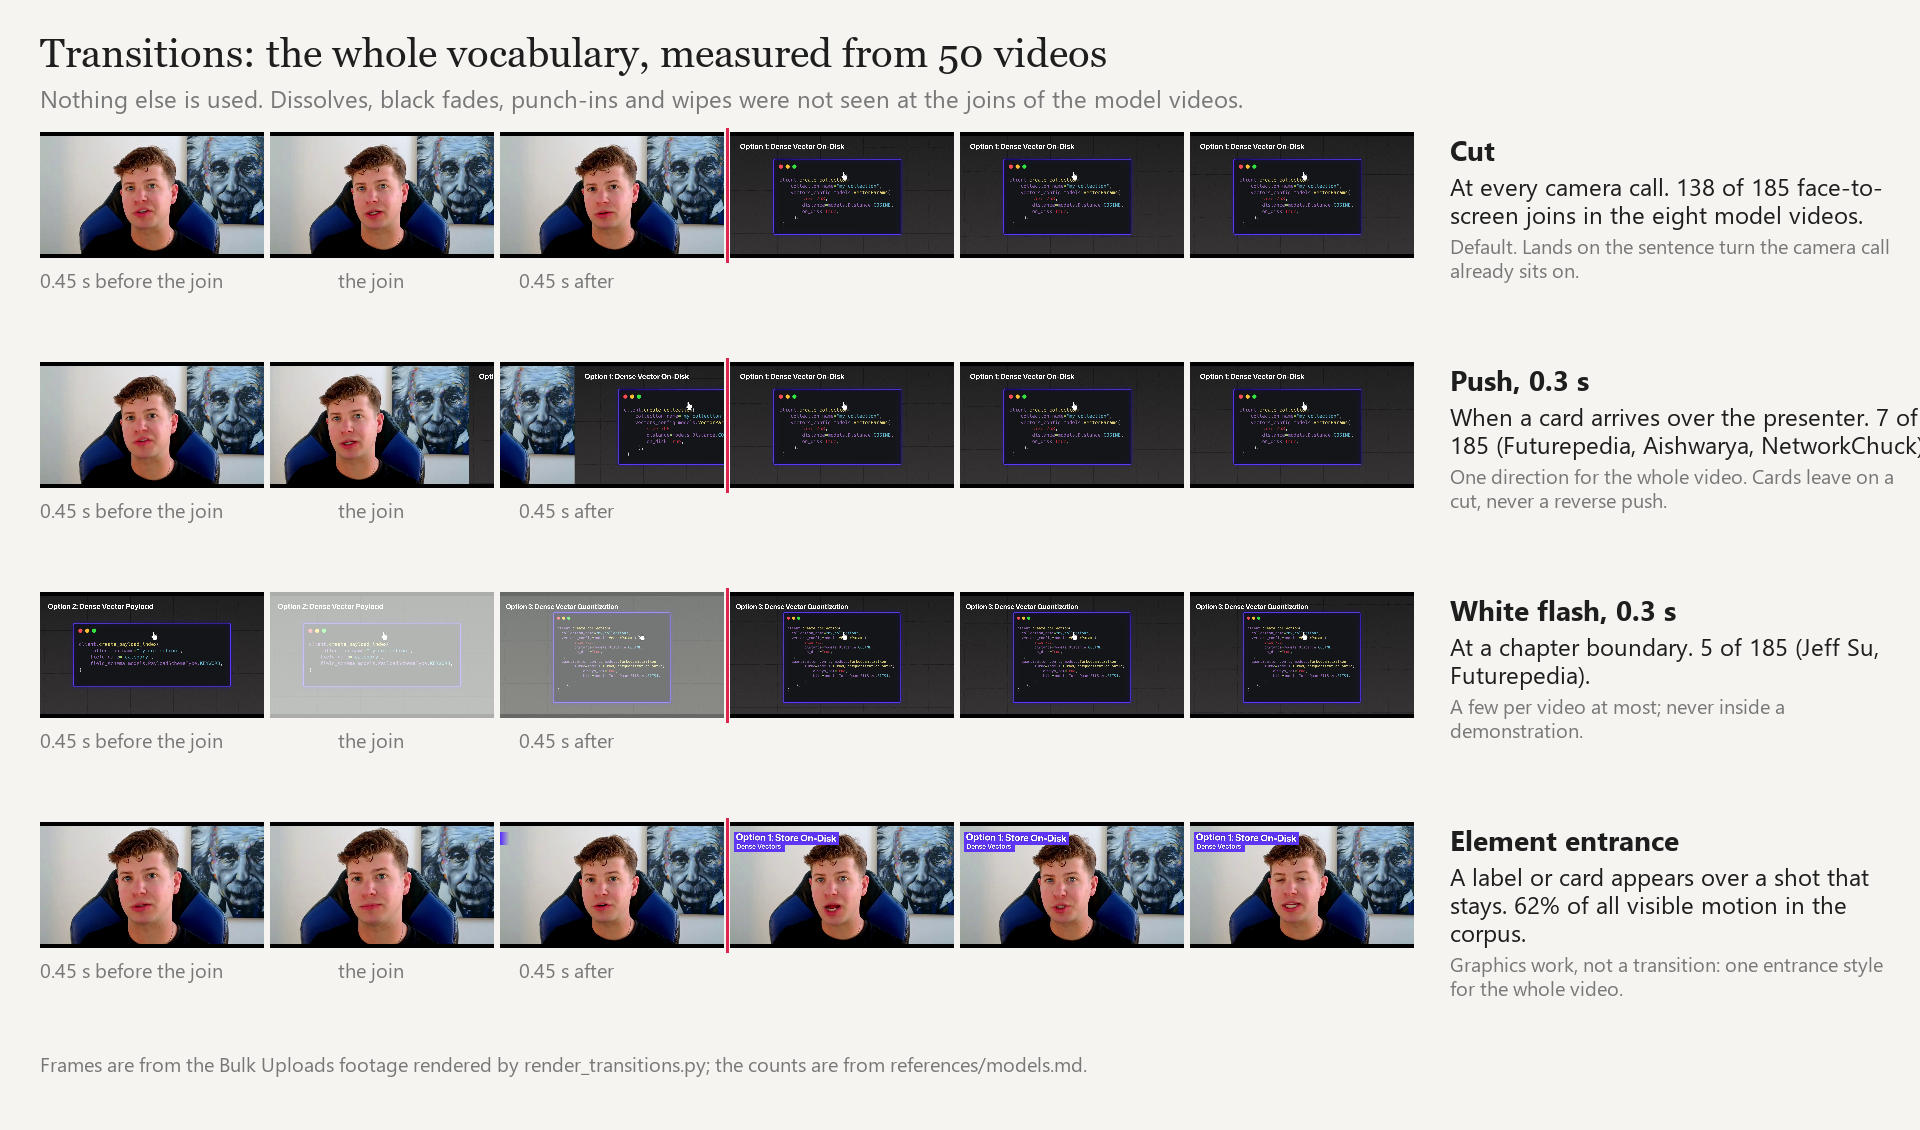
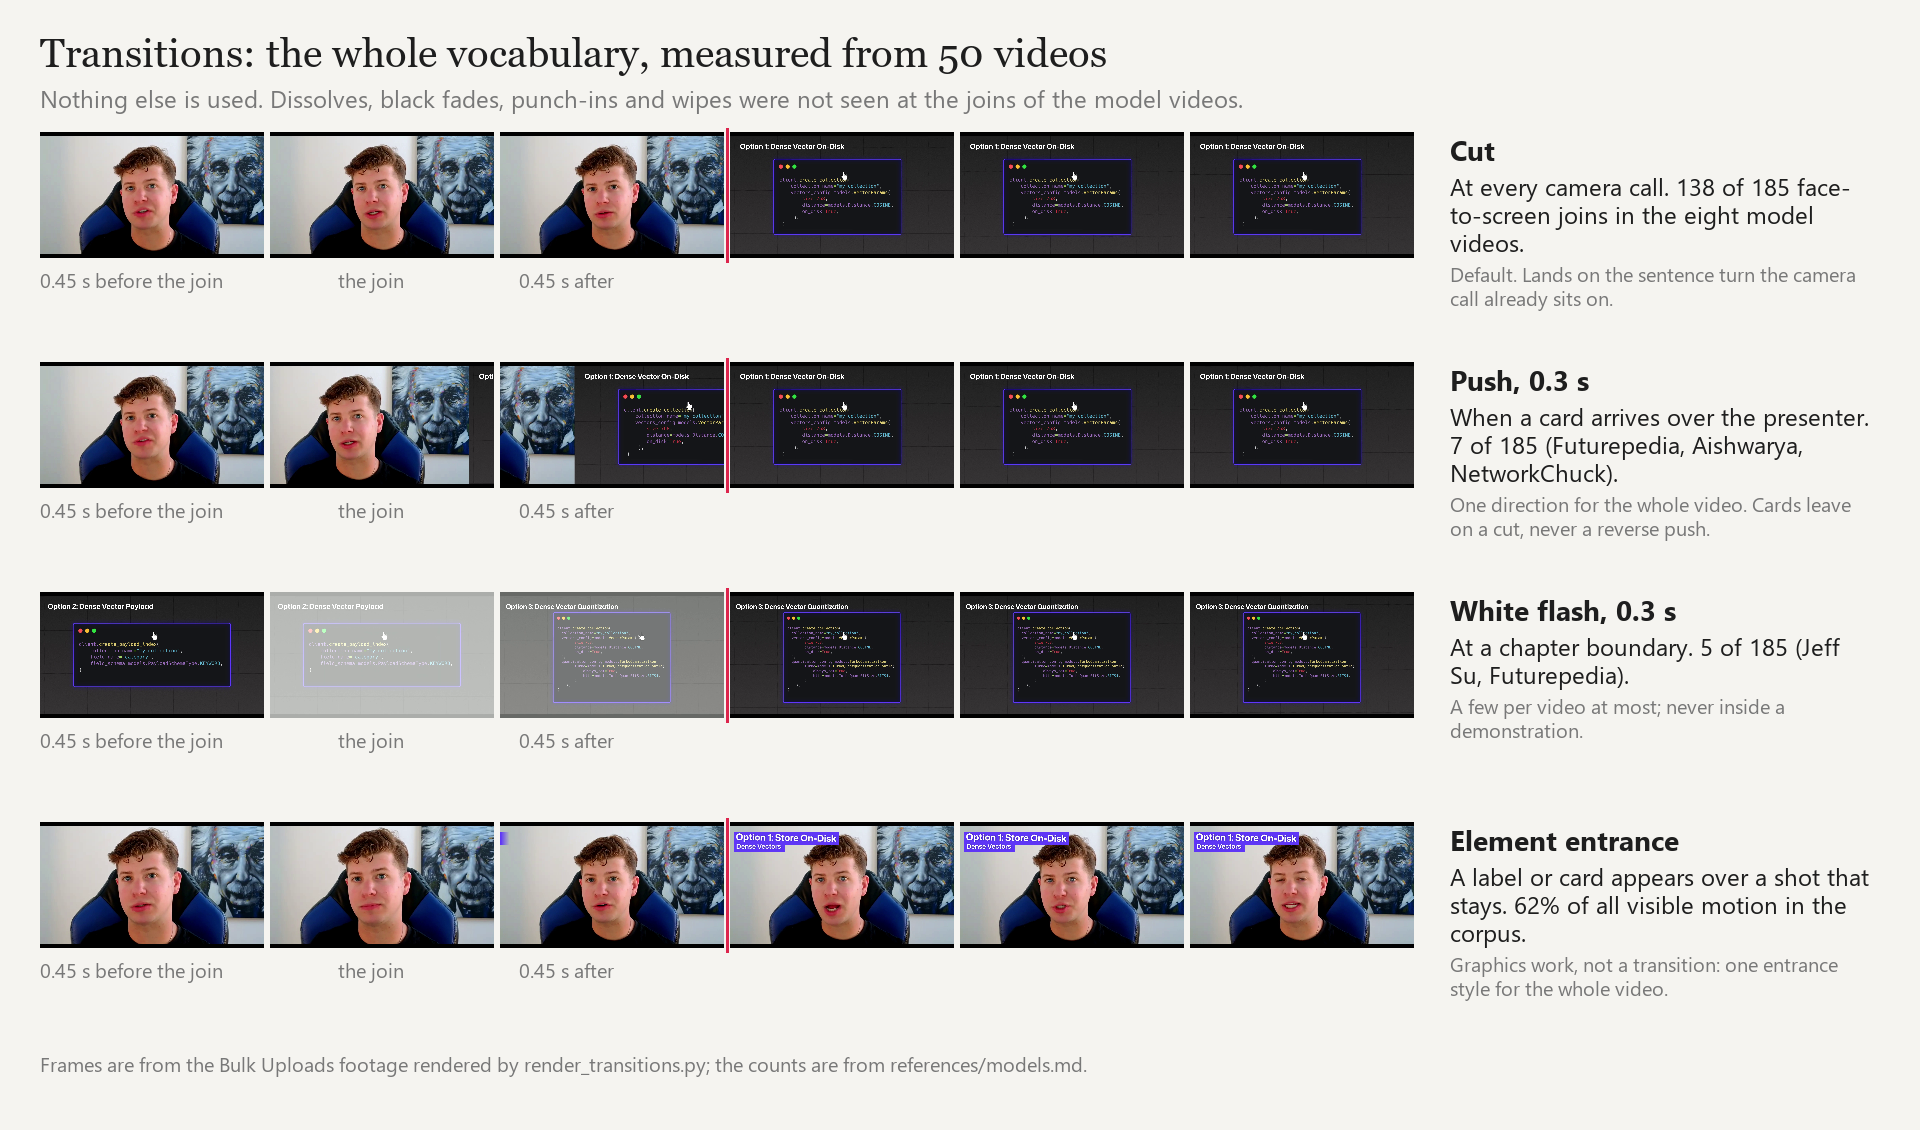
transitions: board text fits

diff --git a/skills/transitions/scripts/boards.py b/skills/transitions/scripts/boards.py
@@ -38,9 +38,9 @@ for name, path, tj, when, rule in rows:
     d.line([(40 + 3 * 230 - 3, y + 8), (40 + 3 * 230 - 3, y + 142)], fill=RED, width=3)
     tx = 40 + 6 * 230 + 30
     d.text((tx, y + 10), name, font=H2, fill=INK)
-    for k, wl in enumerate(textwrap.wrap(when, 44)): d.text((tx, y + 50 + k * 28), wl, font=T, fill=INK)
-    yy = y + 50 + 28 * len(textwrap.wrap(when, 44)) + 6
-    for k, wl in enumerate(textwrap.wrap(rule, 52)): d.text((tx, yy + k * 24), wl, font=S, fill=MUTED)
+    for k, wl in enumerate(textwrap.wrap(when, 40)): d.text((tx, y + 50 + k * 28), wl, font=T, fill=INK)
+    yy = y + 50 + 28 * len(textwrap.wrap(when, 40)) + 6
+    for k, wl in enumerate(textwrap.wrap(rule, 48)): d.text((tx, yy + k * 24), wl, font=S, fill=MUTED)
     d.text((40, y + 146), "0.45 s before the join                       the join                       0.45 s after", font=S, fill=MUTED)
     y += row_h
 d.text((40, y + 10), "Frames are from the Bulk Uploads footage rendered by render_transitions.py; the counts are from references/models.md.", font=S, fill=MUTED)
